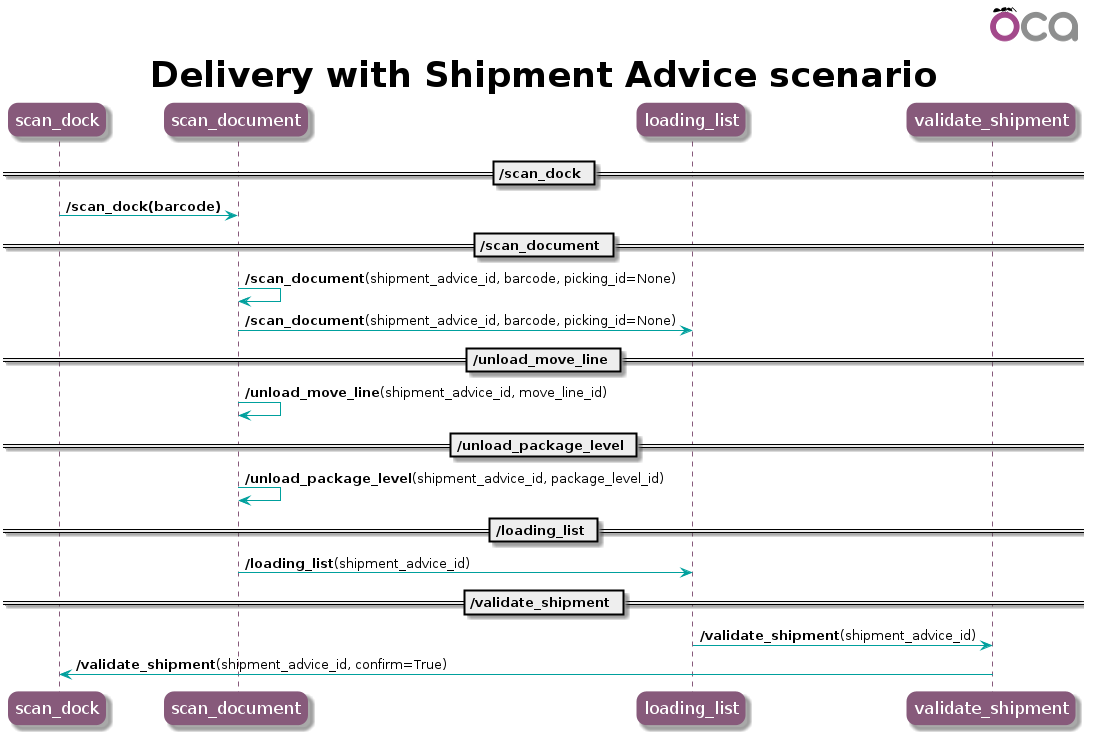
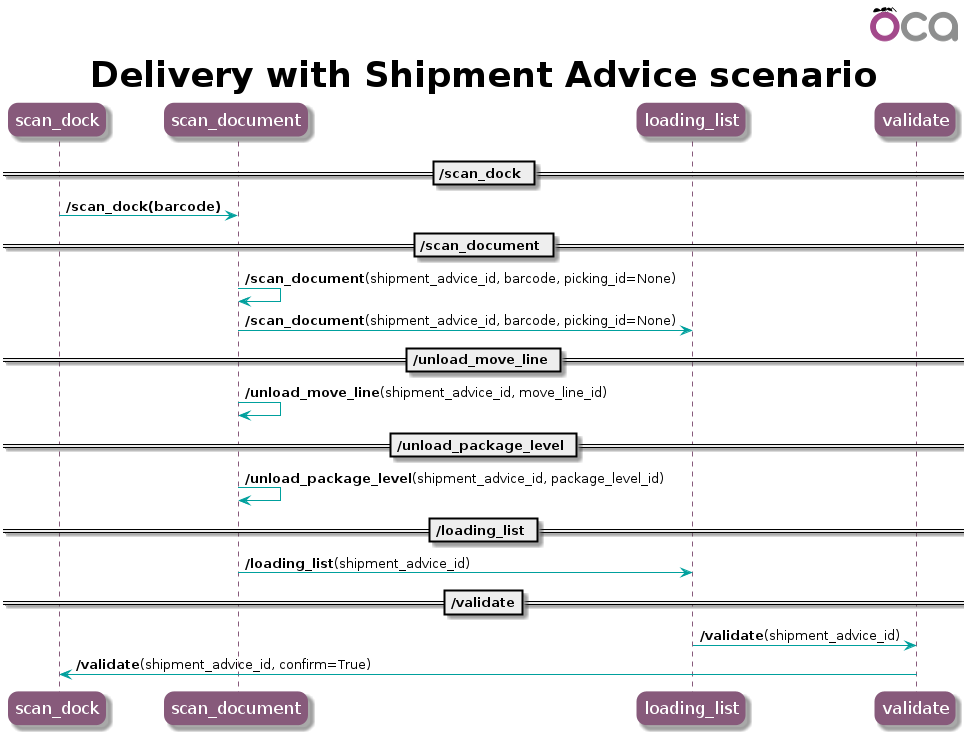
fixup! fixup! fixup! fixup! fixup! fixup! fixup! fixup! fixup! fixup! fixup! fixup! fixup! fixup! [ADD] shopfloor_delivery_shipment

diff --git a/shopfloor_delivery_shipment/tests/test_delivery_shipment_validate.py b/shopfloor_delivery_shipment/tests/test_delivery_shipment_validate.py
@@ -1,0 +1,142 @@
+# Copyright 2021 Camptocamp SA
+# License AGPL-3.0 or later (http://www.gnu.org/licenses/agpl)
+from .test_delivery_shipment_base import DeliveryShipmentCommonCase
+
+
+class DeliveryShipmentValidateCase(DeliveryShipmentCommonCase):
+    """Tests for '/validate' endpoint."""
+
+    def test_validate_wrong_id(self):
+        response = self.service.dispatch("validate", params={"shipment_advice_id": -1})
+        self.assert_response_scan_dock(
+            response, message=self.service.msg_store.record_not_found()
+        )
+
+    def test_validate_shipment_planned_partially_loaded(self):
+        """Validate a planned shipment with part of it loaded."""
+        # Plan some content in the shipment
+        self._plan_records_in_shipment(self.shipment, self.pickings.move_lines)
+        self.shipment.action_confirm()
+        self.shipment.action_in_progress()
+        # Load a part of it
+        #   - part of picking1
+        move_line_d = self.picking1.move_line_ids.filtered(
+            lambda ml: ml.product_id == self.product_d
+        )
+        move_line_d._load_in_shipment(self.shipment)
+        #   - all content of picking2
+        self.picking2._load_in_shipment(self.shipment)
+        #   - nothing from picking3
+        # Get the summary
+        response = self.service.dispatch(
+            "validate", params={"shipment_advice_id": self.shipment.id}
+        )
+        self.assert_response_validate(response, self.shipment)
+        # Check returned content
+        lading = response["data"]["validate"]["lading"]
+        on_dock = response["data"]["validate"]["on_dock"]
+        #   'lading' key contains loaded goods
+        # FIXME check totals
+        self.assertEqual(lading["pickings_count"], 2)
+        self.assertEqual(lading["packages_count"], 1)
+        self.assertEqual(lading["bulk_lines_count"], 3)
+        #   'on_dock' key contains picking3
+        self.assertEqual(on_dock["pickings_count"], 1)
+        self.assertEqual(on_dock["packages_count"], 1)
+        self.assertEqual(on_dock["bulk_lines_count"], 2)
+        # Validate the shipment
+        response = self.service.dispatch(
+            "validate",
+            params={"shipment_advice_id": self.shipment.id, "confirm": True},
+        )
+        self.assert_response_scan_dock(
+            response, message=self.service.msg_store.shipment_validated(self.shipment),
+        )
+        # Check data
+        self.assertEqual(self.picking1.state, self.picking2.state, "done")
+        self.assertEqual(self.picking3.state, "assigned")
+        self.assertTrue(self.picking1.backorder_ids)
+        self.assertFalse(self.picking2.backorder_ids)
+
+    def test_validate_shipment_planned_fully_loaded(self):
+        """Validate a planned shipment fully loaded."""
+        # Plan some content in the shipment
+        self._plan_records_in_shipment(self.shipment, self.pickings.move_lines)
+        self.shipment.action_confirm()
+        self.shipment.action_in_progress()
+        # Load everything
+        self.pickings._load_in_shipment(self.shipment)
+        # Get the summary
+        response = self.service.dispatch(
+            "validate", params={"shipment_advice_id": self.shipment.id}
+        )
+        self.assert_response_validate(response, self.shipment)
+        # Check returned content
+        lading = response["data"]["validate"]["lading"]
+        on_dock = response["data"]["validate"]["on_dock"]
+        #   'lading' key contains loaded goods
+        # FIXME check totals
+        self.assertEqual(lading["pickings_count"], 3)
+        self.assertEqual(lading["packages_count"], 3)
+        self.assertEqual(lading["bulk_lines_count"], 6)
+        #   'on_dock' key contains picking3
+        self.assertEqual(on_dock["pickings_count"], 0)
+        self.assertEqual(on_dock["packages_count"], 0)
+        self.assertEqual(on_dock["bulk_lines_count"], 0)
+        # Validate the shipment
+        response = self.service.dispatch(
+            "validate",
+            params={"shipment_advice_id": self.shipment.id, "confirm": True},
+        )
+        self.assert_response_scan_dock(
+            response, message=self.service.msg_store.shipment_validated(self.shipment),
+        )
+        # Check data
+        self.assertTrue(all([s == "done" for s in self.pickings.mapped("state")]))
+        self.assertFalse(self.picking1.backorder_ids)
+        self.assertFalse(self.picking2.backorder_ids)
+
+    def test_validate_shipment_not_planned_loaded(self):
+        """Validate a unplanned shipment with some content loaded."""
+        self.shipment.action_confirm()
+        self.shipment.action_in_progress()
+        # Load some content
+        #   - part of picking1
+        move_line_d = self.picking1.move_line_ids.filtered(
+            lambda ml: ml.product_id == self.product_d
+        )
+        move_line_d._load_in_shipment(self.shipment)
+        #   - all content of picking2
+        self.picking2._load_in_shipment(self.shipment)
+        #   - nothing from picking3
+        # Get the summary
+        response = self.service.dispatch(
+            "validate", params={"shipment_advice_id": self.shipment.id}
+        )
+        self.assert_response_validate(response, self.shipment)
+        # Check returned content
+        lading = response["data"]["validate"]["lading"]
+        on_dock = response["data"]["validate"]["on_dock"]
+        #   'lading' key contains loaded goods
+        # FIXME check totals
+        self.assertEqual(lading["pickings_count"], 2)
+        self.assertEqual(lading["packages_count"], 1)
+        self.assertEqual(lading["bulk_lines_count"], 3)
+        #   'on_dock' key contains picking3 (at least, as there is others
+        # existing deliveries in the demo data)
+        self.assertTrue(on_dock["pickings_count"] >= 1)
+        self.assertTrue(on_dock["packages_count"] >= 1)
+        self.assertTrue(on_dock["bulk_lines_count"] >= 2)
+        # Validate the shipment
+        response = self.service.dispatch(
+            "validate",
+            params={"shipment_advice_id": self.shipment.id, "confirm": True},
+        )
+        self.assert_response_scan_dock(
+            response, message=self.service.msg_store.shipment_validated(self.shipment),
+        )
+        # Check data
+        self.assertEqual(self.picking1.state, self.picking2.state, "done")
+        self.assertEqual(self.picking3.state, "assigned")
+        self.assertTrue(self.picking1.backorder_ids)
+        self.assertFalse(self.picking2.backorder_ids)

diff --git a/shopfloor_delivery_shipment/services/delivery_shipment.py b/shopfloor_delivery_shipment/services/delivery_shipment.py
@@ -53,7 +53,7 @@ class DeliveryShipment(Component):
                 picking=self.data.picking(picking),
                 content=self._data_for_content_to_load(shipment_advice, picking),
             )
-        return self._response(next_state="scan_document", data=data, message=message,)
+        return self._response(next_state="scan_document", data=data, message=message)
 
     def _response_for_loading_list(self, shipment_advice, message=None):
         data = {
@@ -61,7 +61,7 @@ class DeliveryShipment(Component):
             "lading": self._data_for_lading(shipment_advice),
             "on_dock": self._data_for_on_dock(shipment_advice),
         }
-        return self._response(next_state="loading_list", data=data, message=message,)
+        return self._response(next_state="loading_list", data=data, message=message)
 
     def _response_for_scan_document_or_loading_list(
         self, shipment_advice, picking, message=None
@@ -81,6 +81,14 @@ class DeliveryShipment(Component):
         return self._response_for_scan_document(
             shipment_advice, picking, message=message
         )
+
+    def _response_for_validate(self, shipment_advice, message=None):
+        data = {
+            "shipment_advice": self.data.shipment_advice(shipment_advice),
+            "lading": self._data_for_lading_summary(shipment_advice),
+            "on_dock": self._data_for_on_dock_summary(shipment_advice),
+        }
+        return self._response(next_state="validate", data=data, message=message)
 
     def _data_for_content_to_load(self, shipment_advice, picking):
         """Return a tuple list of dictionaries where keys are source locations
@@ -139,6 +147,18 @@ class DeliveryShipment(Component):
         ).sorted("loaded_progress_f")
         return self.data.pickings_loaded(pickings)
 
+    def _data_for_lading_summary(self, shipment_advice):
+        """Return the number of deliveries/packages/bulk lines loaded."""
+        pickings = shipment_advice.loaded_picking_ids.filtered(
+            lambda p: p.picking_type_id & self.picking_types
+        ).sorted("loaded_progress_f")
+        return {
+            "pickings_count": len(pickings),
+            "packages_count": sum(pickings.mapped("loaded_packages_count")),
+            "bulk_lines_count": sum(pickings.mapped("loaded_move_lines_count")),
+            "total_load": sum(pickings.mapped("loaded_weight")),
+        }
+
     def _data_for_on_dock(self, shipment_advice):
         """Return a list of deliveries not loaded in the shipment advice.
 
@@ -147,6 +167,15 @@ class DeliveryShipment(Component):
         return self.data.pickings(
             self._find_pickings_not_loaded_from_shipment(shipment_advice)
         )
+
+    def _data_for_on_dock_summary(self, shipment_advice):
+        """Return the number of deliveries/packages/bulk lines not loaded."""
+        pickings = self._find_pickings_not_loaded_from_shipment(shipment_advice)
+        return {
+            "pickings_count": len(pickings),
+            "packages_count": len(pickings.package_level_ids.package_id),
+            "bulk_lines_count": len(pickings.move_line_ids_without_package),
+        }
 
     def _find_shipment_advice_from_dock(self, dock):
         return self.env["shipment.advice"].search(
@@ -581,9 +610,25 @@ class DeliveryShipment(Component):
             )
         return self._response_for_loading_list(shipment_advice)
 
-    def validate_shipment(self, shipment_advice_id, confirm=False):
-        # TODO
-        pass
+    def validate(self, shipment_advice_id, confirm=False):
+        """Validate the shipment advice.
+
+        When called the first time with `confirm=False`, it returns a summary
+        of the deliveries (loaded or that can still be loaded) for that shipment.
+        """
+        shipment_advice = (
+            self.env["shipment.advice"].browse(shipment_advice_id).exists()
+        )
+        if not shipment_advice:
+            return self._response_for_scan_dock(
+                message=self.msg_store.record_not_found()
+            )
+        if not confirm:
+            return self._response_for_validate(shipment_advice)
+        shipment_advice.action_done()
+        return self._response_for_scan_dock(
+            message=self.msg_store.shipment_validated(shipment_advice)
+        )
 
 
 class ShopfloorDeliveryShipmentValidator(Component):
@@ -647,7 +692,7 @@ class ShopfloorDeliveryShipmentValidator(Component):
             },
         }
 
-    def validate_shipment(self):
+    def validate(self):
         return {
             "shipment_advice_id": {
                 "coerce": to_int,
@@ -682,7 +727,7 @@ class ShopfloorDeliveryShipmentValidatorResponse(Component):
             "scan_dock": self._schema_scan_dock,
             "scan_document": self._schema_scan_document,
             "loading_list": self._schema_loading_list,
-            "validate_shipment": self._schema_validate_shipment,
+            "validate": self._schema_validate,
         }
 
     @property
@@ -720,15 +765,18 @@ class ShopfloorDeliveryShipmentValidatorResponse(Component):
         }
 
     @property
-    def _schema_validate_shipment(self):
+    def _schema_validate(self):
         shipment_schema = self.schemas.shipment_advice()
-        # TODO
+        shipment_lading_summary_schema = self.schemas.shipment_lading_summary()
+        shipment_on_dock_summary_schema = self.schemas.shipment_on_dock_summary()
         return {
             "shipment_advice": {
                 "type": "dict",
                 "nullable": False,
                 "schema": shipment_schema,
             },
+            "lading": self.schemas._schema_dict_of(shipment_lading_summary_schema),
+            "on_dock": self.schemas._schema_dict_of(shipment_on_dock_summary_schema),
         }
 
     def scan_dock(self):
@@ -742,5 +790,5 @@ class ShopfloorDeliveryShipmentValidatorResponse(Component):
     def loading_list(self):
         return self._response_schema(next_states={"loading_list", "scan_dock"})
 
-    def validate_shipment(self):
-        return self._response_schema(next_states={"validate_shipment", "scan_dock"})
+    def validate(self):
+        return self._response_schema(next_states={"validate", "scan_dock"})

diff --git a/shopfloor_delivery_shipment/tests/test_delivery_shipment_base.py b/shopfloor_delivery_shipment/tests/test_delivery_shipment_base.py
@@ -46,7 +46,11 @@ class DeliveryShipmentCommonCase(common.CommonCase):
             raw_move = picking.move_lines[3]
             cls._fill_stock_for_moves(pack_moves, in_package=True)
             cls._fill_stock_for_moves(lot_move, in_lot=True)
-            cls._fill_stock_for_moves(raw_move)
+            # For raw move, add stock to the current one (if any)
+            # so we do not use '_fill_stock_for_moves' method
+            cls.env["stock.quant"]._update_available_quantity(
+                raw_move.product_id, raw_move.location_id, raw_move.product_uom_qty
+            )
             picking.action_assign()
         # Create a shipment advice
         cls.shipment = cls._create_shipment()
@@ -107,4 +111,14 @@ class DeliveryShipmentCommonCase(common.CommonCase):
         }
         self.assert_response(
             response, next_state="loading_list", data=data, message=message,
+        )
+
+    def assert_response_validate(self, response, shipment_advice, message=None):
+        data = {
+            "shipment_advice": self._data_for_shipment_advice(shipment_advice),
+            "lading": self.service._data_for_lading_summary(shipment_advice),
+            "on_dock": self.service._data_for_on_dock_summary(shipment_advice),
+        }
+        self.assert_response(
+            response, next_state="validate", data=data, message=message,
         )

diff --git a/shopfloor_delivery_shipment/actions/schema.py b/shopfloor_delivery_shipment/actions/schema.py
@@ -45,3 +45,26 @@ class ShopfloorSchemaAction(Component):
             }
         )
         return schema
+
+    def shipment_lading_summary(self):
+        return {
+            "pickings_count": {"type": "integer", "nullable": False, "required": True},
+            "packages_count": {"type": "integer", "nullable": False, "required": True},
+            "bulk_lines_count": {
+                "type": "integer",
+                "nullable": False,
+                "required": True,
+            },
+            "total_load": {"type": "integer", "nullable": False, "required": True},
+        }
+
+    def shipment_on_dock_summary(self):
+        return {
+            "pickings_count": {"type": "integer", "nullable": False, "required": True},
+            "packages_count": {"type": "integer", "nullable": False, "required": True},
+            "bulk_lines_count": {
+                "type": "integer",
+                "nullable": False,
+                "required": True,
+            },
+        }

diff --git a/shopfloor_delivery_shipment/tests/test_delivery_shipment_loading_list.py b/shopfloor_delivery_shipment/tests/test_delivery_shipment_loading_list.py
@@ -61,7 +61,7 @@ class DeliveryShipmentLoadingListCase(DeliveryShipmentCommonCase):
         #   'on_dock' key is empty
         self.assertFalse(on_dock)
 
-    def test_loading_list_shipment_not_planned_partially_loaded(self):
+    def test_loading_list_shipment_not_planned_loaded(self):
         """Get the loading list of a unplanned shipment with some content loaded."""
         # Load a part of it
         #   - part of picking1

diff --git a/shopfloor_delivery_shipment/actions/message.py b/shopfloor_delivery_shipment/actions/message.py
@@ -119,3 +119,9 @@ class MessageAction(Component):
             "message_type": "info",
             "body": _("Planned content has been fully loaded."),
         }
+
+    def shipment_validated(self, shipment_advice):
+        return {
+            "message_type": "info",
+            "body": _("Shipment {} is validated."),
+        }

diff --git a/shopfloor_delivery_shipment/tests/__init__.py b/shopfloor_delivery_shipment/tests/__init__.py
@@ -6,3 +6,4 @@ from . import test_delivery_shipment_scan_document_lot
 from . import test_delivery_shipment_scan_document_product
 from . import test_delivery_shipment_unload
 from . import test_delivery_shipment_loading_list
+from . import test_delivery_shipment_validate
